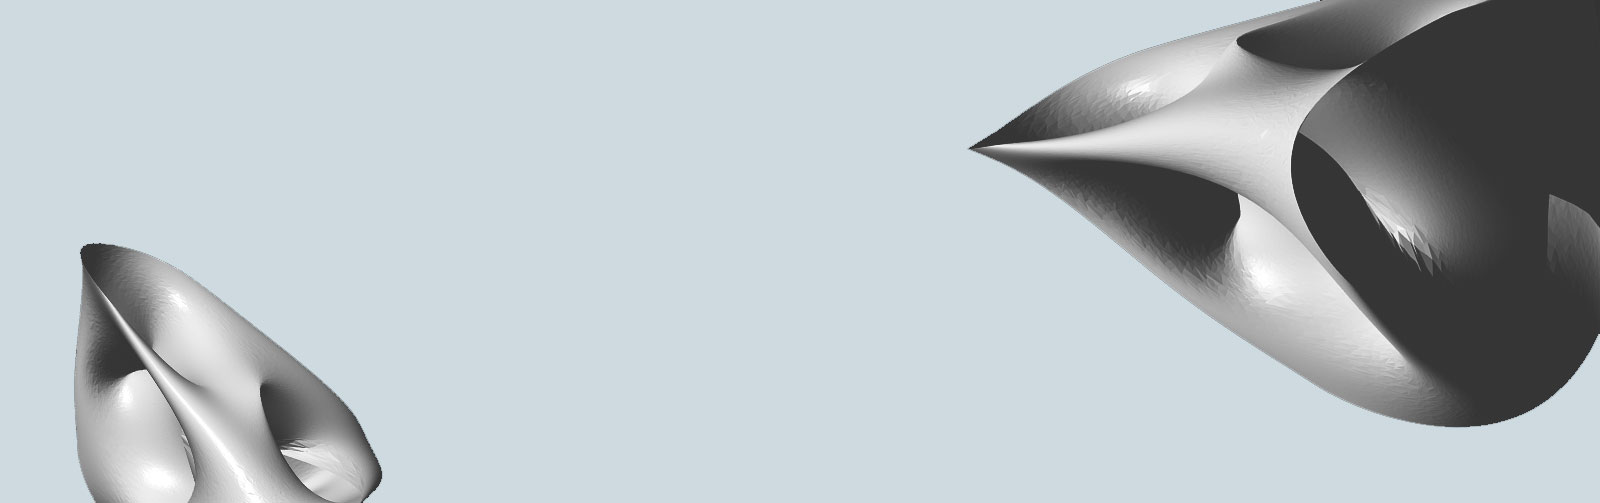
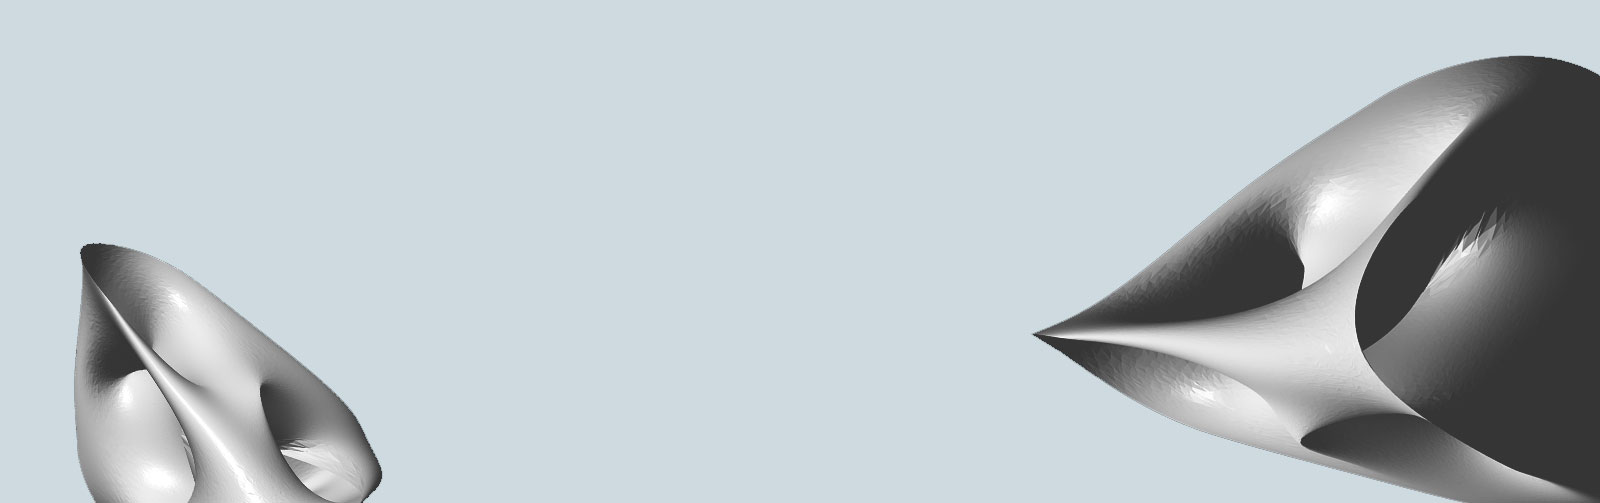
Updated proposal

Changed region(s): [[0.5938, 0.0, 1.0, 1.0]]

diff --git a/pages/pages-root-folder/index.md b/pages/pages-root-folder/index.md
@@ -6,7 +6,7 @@
 #
 layout: frontpage
 header:
-  image_fullwidth: gudhi_banner_5.jpg
+  image_fullwidth: gudhi_banner.jpg
 #widget1:
 #  title: "Project"
 #  url: '/intro/'
